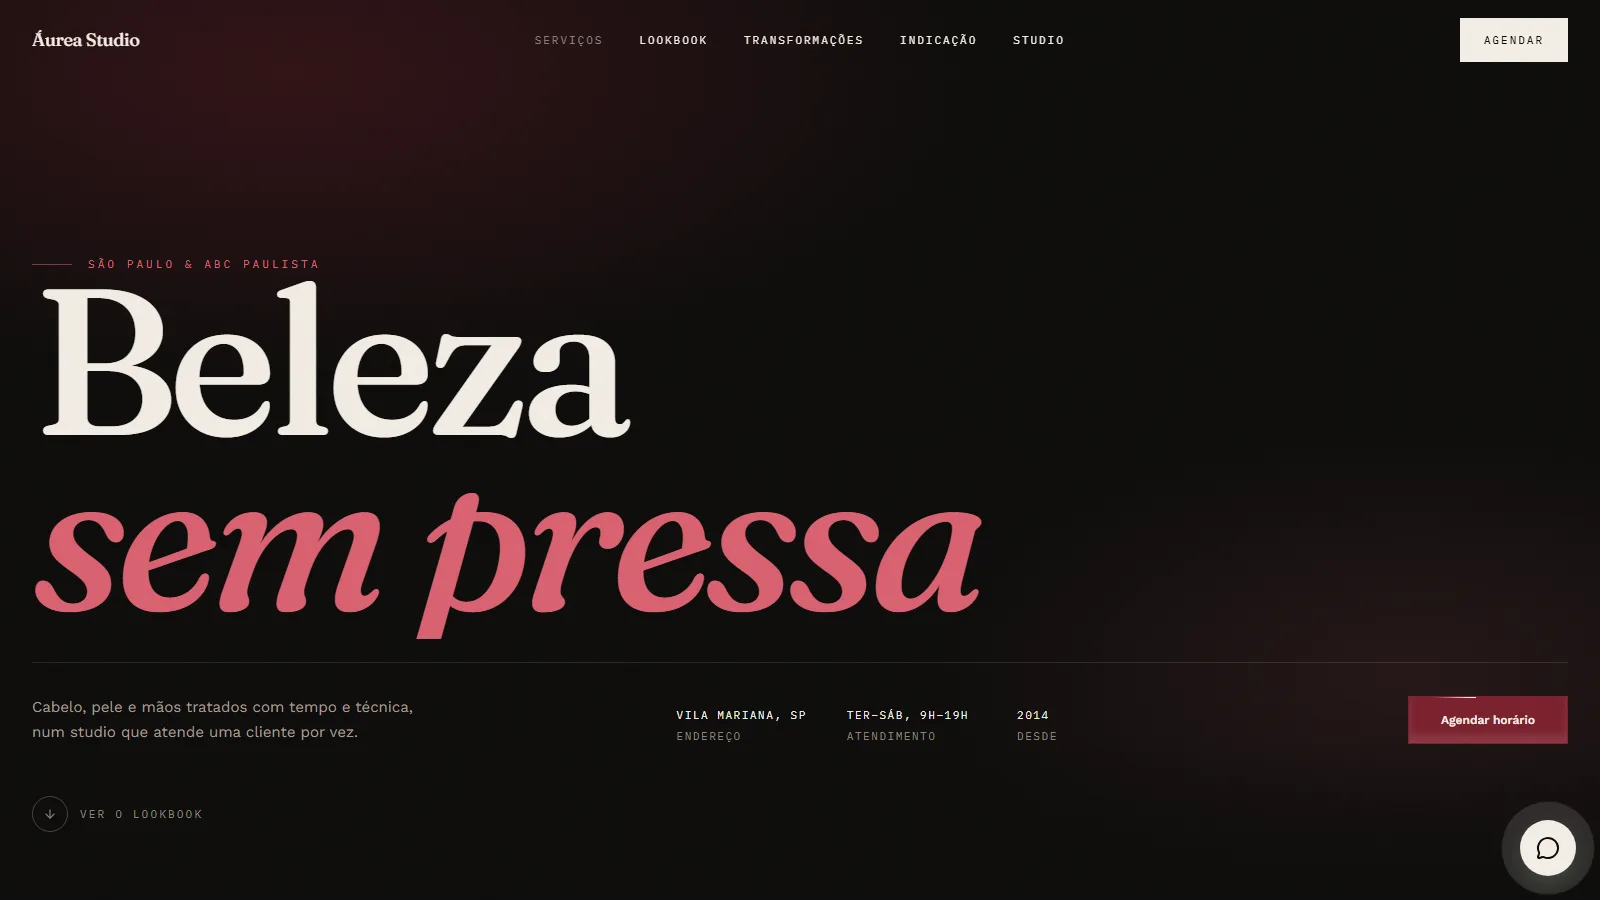
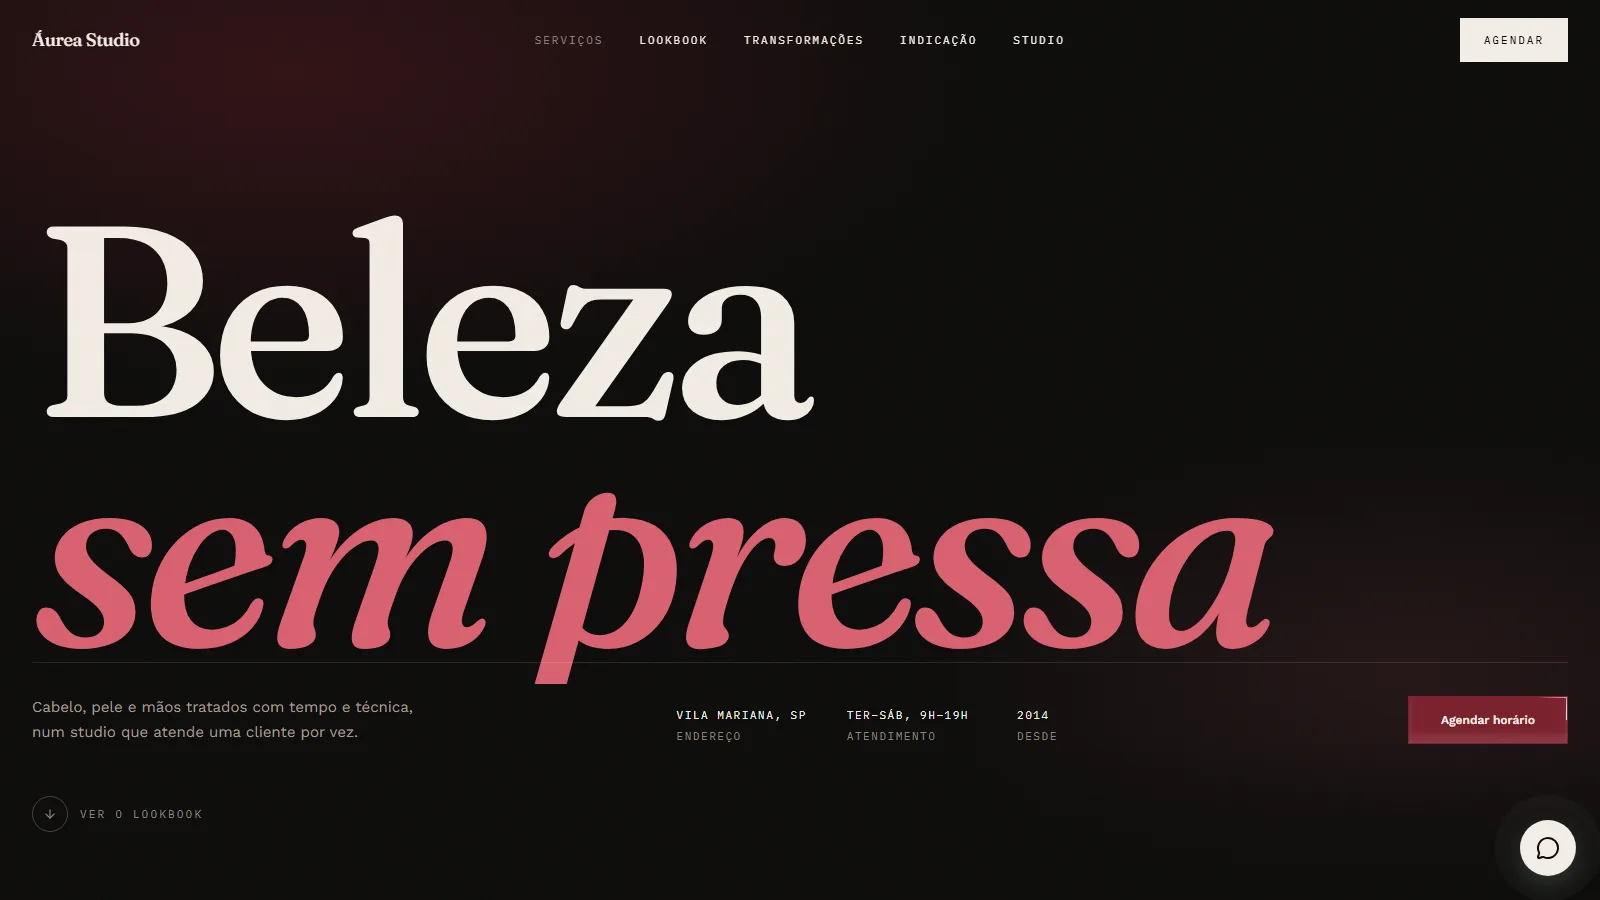
Serve a prévia do case art-directed e recaptura o Áurea
Três correções vindas de uso real no celular.

1) A prévia aparecia cortada no celular. A moldura era 4:3 e a única
captura disponível era a de desktop, 16:9, então o object-cover decepava
o título do cliente pelos dois lados. Agora existem duas capturas e o
<picture> escolhe por media query: retrato de celular abaixo de 640px,
paisagem acima. A moldura acompanha (43/61 no celular, 16/9 no desktop).

Vale dizer em voz alta: a tabela de serviços vende "mobile desenhado, não
espremido". Espremer a prova do próprio trabalho era a mesma incoerência
do LCP escrito à mão na capa.

<picture> com media é o que faz o navegador baixar UMA das duas imagens.
Esconder a outra com display:none não evita o download, e por isso o
next/image saiu daqui: ele não expõe <picture>, e num export estático não
há otimizador para ele acionar.

2) A captura estava desatualizada. O Áurea removeu o rótulo "São Paulo &
ABC Paulista" acima do título e a imagem no site ainda o mostrava.
Recapturadas as duas versões do site em produção.

3) "Vercel" sai da ficha técnica do case, a pedido.

Changed region(s): [[0.0, 0.5289, 0.8125, 0.7778], [0.0312, 0.2178, 0.5312, 0.4978], [0.9688, 0.9022, 1.0, 0.9333]]

diff --git a/components/ui/case-preview.tsx b/components/ui/case-preview.tsx
@@ -1,4 +1,3 @@
-import Image from "next/image";
 import { cn } from "@/lib/utils";
 
 /**
@@ -8,16 +7,26 @@ import { cn } from "@/lib/utils";
  * reprodução em CSS da identidade do cliente — paleta, proporção tipográfica e
  * ritmo das seções. A alternativa é deliberada e honesta: uma miniatura
  * claramente ilustrativa comunica a direção de arte sem se passar por um
- * screenshot que não é. Quem chama o componente sinaliza isso na legenda.
+ * screenshot que não é.
  *
- * A captura passa pelo next/image, então o navegador recebe o tamanho certo
- * para a largura da tela em vez de sempre o arquivo de 1600px. Num site que
- * vende carregamento, servir imagem grande demais seria o erro mais caro.
+ * A imagem é art-directed, não redimensionada. No celular entra a captura do
+ * site do cliente EM UM CELULAR; no desktop, a de desktop. A versão anterior
+ * servia só a captura larga e a recortava para caber numa moldura vertical, o
+ * que decepava o título do cliente pelos dois lados.
+ *
+ * Vale dizer em voz alta: a página cobra "mobile desenhado, não espremido" na
+ * tabela de serviços. Espremer a prova do próprio trabalho no celular era o
+ * mesmo tipo de incoerência do LCP escrito à mão.
+ *
+ * `<picture>` com `media` é o que faz o navegador baixar UMA das duas, e não as
+ * duas. Esconder com `display:none` não evita o download.
  */
 
 interface CasePreviewProps {
-  /** Captura real. Sem ela, renderiza a miniatura em CSS. */
+  /** Captura de desktop. Sem ela, renderiza a miniatura em CSS. */
   src?: string;
+  /** Captura de celular. Sem ela, a de desktop vale para todas as larguras. */
+  srcMobile?: string;
   alt?: string;
   className?: string;
   /** A prévia da home é a maior imagem da página; vale carregar cedo. */
@@ -26,22 +35,34 @@ interface CasePreviewProps {
 
 export function CasePreview({
   src,
+  srcMobile,
   alt,
   className,
   priority = false,
 }: CasePreviewProps) {
   if (src) {
     return (
-      <Image
-        src={src}
-        alt={alt ?? ""}
-        fill
-        // Ocupa a largura útil da prancha no desktop e a tela inteira no
-        // celular, descontado o respiro lateral.
-        sizes="(min-width: 1024px) 1136px, 100vw"
-        priority={priority}
-        className={cn("object-cover object-top", className)}
-      />
+      <picture>
+        {srcMobile && (
+          <source
+            media="(max-width: 639px)"
+            srcSet={srcMobile}
+            type="image/webp"
+          />
+        )}
+        {/* eslint-disable-next-line @next/next/no-img-element -- art direction
+            precisa de <picture>, que o next/image não expõe. As capturas já
+            saem no tamanho e no formato certos, e o export é estático: não há
+            otimizador de imagem em produção para o next/image acionar. */}
+        <img
+          src={src}
+          alt={alt ?? ""}
+          className={cn("size-full object-cover object-top", className)}
+          loading={priority ? "eager" : "lazy"}
+          fetchPriority={priority ? "high" : "auto"}
+          decoding="async"
+        />
+      </picture>
     );
   }
 
@@ -61,7 +82,7 @@ export function CasePreview({
 
       <div className="relative flex h-full flex-col justify-between p-[6%]">
         <div className="flex items-center justify-between">
-          <span className="font-heading text-[clamp(0.5rem,1.6cqw,0.75rem)] font-medium text-[#f2ede4]">
+          <span className="font-display text-[clamp(0.5rem,1.6cqw,0.75rem)] font-medium text-[#f2ede4]">
             Áurea Studio
           </span>
           <span className="flex gap-[3%]">
@@ -72,25 +93,19 @@ export function CasePreview({
         </div>
 
         <div>
-          {/*
-            Sem rótulo de região acima do título: o site real deixou de ter
-            essa linha, e a miniatura existe para representar o que está no ar.
-            Prévia de portfólio que mostra uma versão antiga do projeto é
-            defasagem que corrói a credibilidade da peça inteira.
-          */}
-          <p className="font-heading text-[clamp(1.1rem,7cqw,3.5rem)] font-medium leading-[0.86] tracking-[-0.04em] text-[#f2ede4]">
+          <p className="font-display mt-[3%] text-[clamp(1.1rem,7cqw,3.5rem)] leading-[0.86] font-medium tracking-[-0.04em] text-[#f2ede4]">
             Beleza
             <br />
-            <span className="italic text-[#d9606f]">sem pressa</span>
+            <span className="text-[#d9606f] italic">sem pressa</span>
           </p>
         </div>
 
         <div className="flex items-end justify-between gap-4 border-t border-[#f2ede4]/12 pt-[3%]">
-          <span className="flex flex-col gap-[0.35em] font-mono text-[clamp(0.28rem,0.9cqw,0.45rem)] uppercase tracking-[0.16em]">
+          <span className="flex flex-col gap-[0.35em] font-mono text-[clamp(0.28rem,0.9cqw,0.45rem)] tracking-[0.16em] uppercase">
             <span className="text-[#f2ede4]">Vila Mariana, SP</span>
             <span className="text-[#8a837a]">Endereço</span>
           </span>
-          <span className="bg-[#7a1e2b] px-[5%] py-[1.6%] font-mono text-[clamp(0.28rem,0.9cqw,0.45rem)] uppercase tracking-[0.18em] text-[#f2ede4]">
+          <span className="bg-[#7a1e2b] px-[5%] py-[1.6%] font-mono text-[clamp(0.28rem,0.9cqw,0.45rem)] tracking-[0.18em] text-[#f2ede4] uppercase">
             Agendar
           </span>
         </div>

diff --git a/lib/constants.ts b/lib/constants.ts
@@ -118,10 +118,16 @@ export interface CaseStudy {
   /** Endereço do site no ar. Vazio esconde o botão. */
   liveUrl?: string;
   /**
-   * Captura do site em produção. Sem ela, o card cai para a prévia em CSS.
-   * Recapture rodando o site no ar e salvando em /public/cases/<slug>.webp.
+   * Captura do site em produção, em desktop. Sem ela, o card cai para a
+   * prévia em CSS. Recapture rodando o site no ar e salvando em
+   * /public/cases/<slug>.webp.
    */
   image?: string;
+  /**
+   * Captura do MESMO site num celular, não a de desktop recortada. É o que
+   * evita decepar o título do cliente numa moldura vertical.
+   */
+  imageMobile?: string;
   imageAlt?: string;
 }
 
@@ -163,9 +169,10 @@ export const CASE_STUDIES: CaseStudy[] = [
       "Contraste WCAG AA verificado por auditoria automatizada em todas as páginas",
       "Fotos de 3 MB servidas como WebP de ~120 KB",
     ],
-    stack: ["Next.js 16", "React 19", "Tailwind v4", "Framer Motion", "Vercel"],
+    stack: ["Next.js 16", "React 19", "Tailwind v4", "Framer Motion"],
     liveUrl: "https://aurea-studio-seven.vercel.app",
     image: "/cases/aurea-studio.webp",
+    imageMobile: "/cases/aurea-studio-mobile.webp",
     imageAlt:
       "Capa do site do Áurea Studio: fundo preto tinta, o título “Beleza sem pressa” em serifa grande com a segunda linha em itálico oxblood, e uma faixa de informações com endereço, horário e o botão de agendar.",
   },

diff --git a/components/sections/featured-work.tsx b/components/sections/featured-work.tsx
@@ -58,11 +58,18 @@ export function FeaturedWork() {
             target="_blank"
             rel="noopener noreferrer"
             aria-label={`Abrir o site do ${caso.client} em uma nova aba`}
-            className="group/mira border-rule relative block aspect-[4/3] overflow-hidden border sm:aspect-[16/9]"
+            // A moldura acompanha a captura de cada largura: retrato de
+            // celular no celular, paisagem no desktop. Recortar uma na
+            // proporção da outra decepava o título do cliente.
+            className="group/mira border-rule relative block aspect-[43/61] overflow-hidden border sm:aspect-[16/9]"
           >
             {/* Sem `priority`: a prévia está bem abaixo da dobra. Pré-carregá-la
                 disputava banda com a fonte que o LCP estava esperando. */}
-            <CasePreview src={caso.image} alt={caso.imageAlt} />
+            <CasePreview
+              src={caso.image}
+              srcMobile={caso.imageMobile}
+              alt={caso.imageAlt}
+            />
 
             <span
               aria-hidden="true"

diff --git a/app/cases/[slug]/page.tsx b/app/cases/[slug]/page.tsx
@@ -112,10 +112,14 @@ export default async function CasePage({
         {/* Prévia */}
         <section className="border-rule bg-ink-2 border-b">
           <div className="shell py-12 sm:py-16">
-            {/* `relative` não é decorativo: o next/image usa `fill`, que
-                posiciona a imagem contra o ancestral posicionado mais próximo. */}
-            <div className="border-rule relative aspect-[4/3] overflow-hidden border sm:aspect-[16/9]">
-              <CasePreview src={caso.image} alt={caso.imageAlt} />
+            {/* A moldura acompanha a captura de cada largura: retrato de
+                celular no celular, paisagem no desktop. */}
+            <div className="border-rule relative aspect-[43/61] overflow-hidden border sm:aspect-[16/9]">
+              <CasePreview
+                src={caso.image}
+                srcMobile={caso.imageMobile}
+                alt={caso.imageAlt}
+              />
             </div>
             {!caso.image && (
               <p className="text-faint mt-4 font-mono text-[0.625rem] tracking-[0.14em] uppercase">
